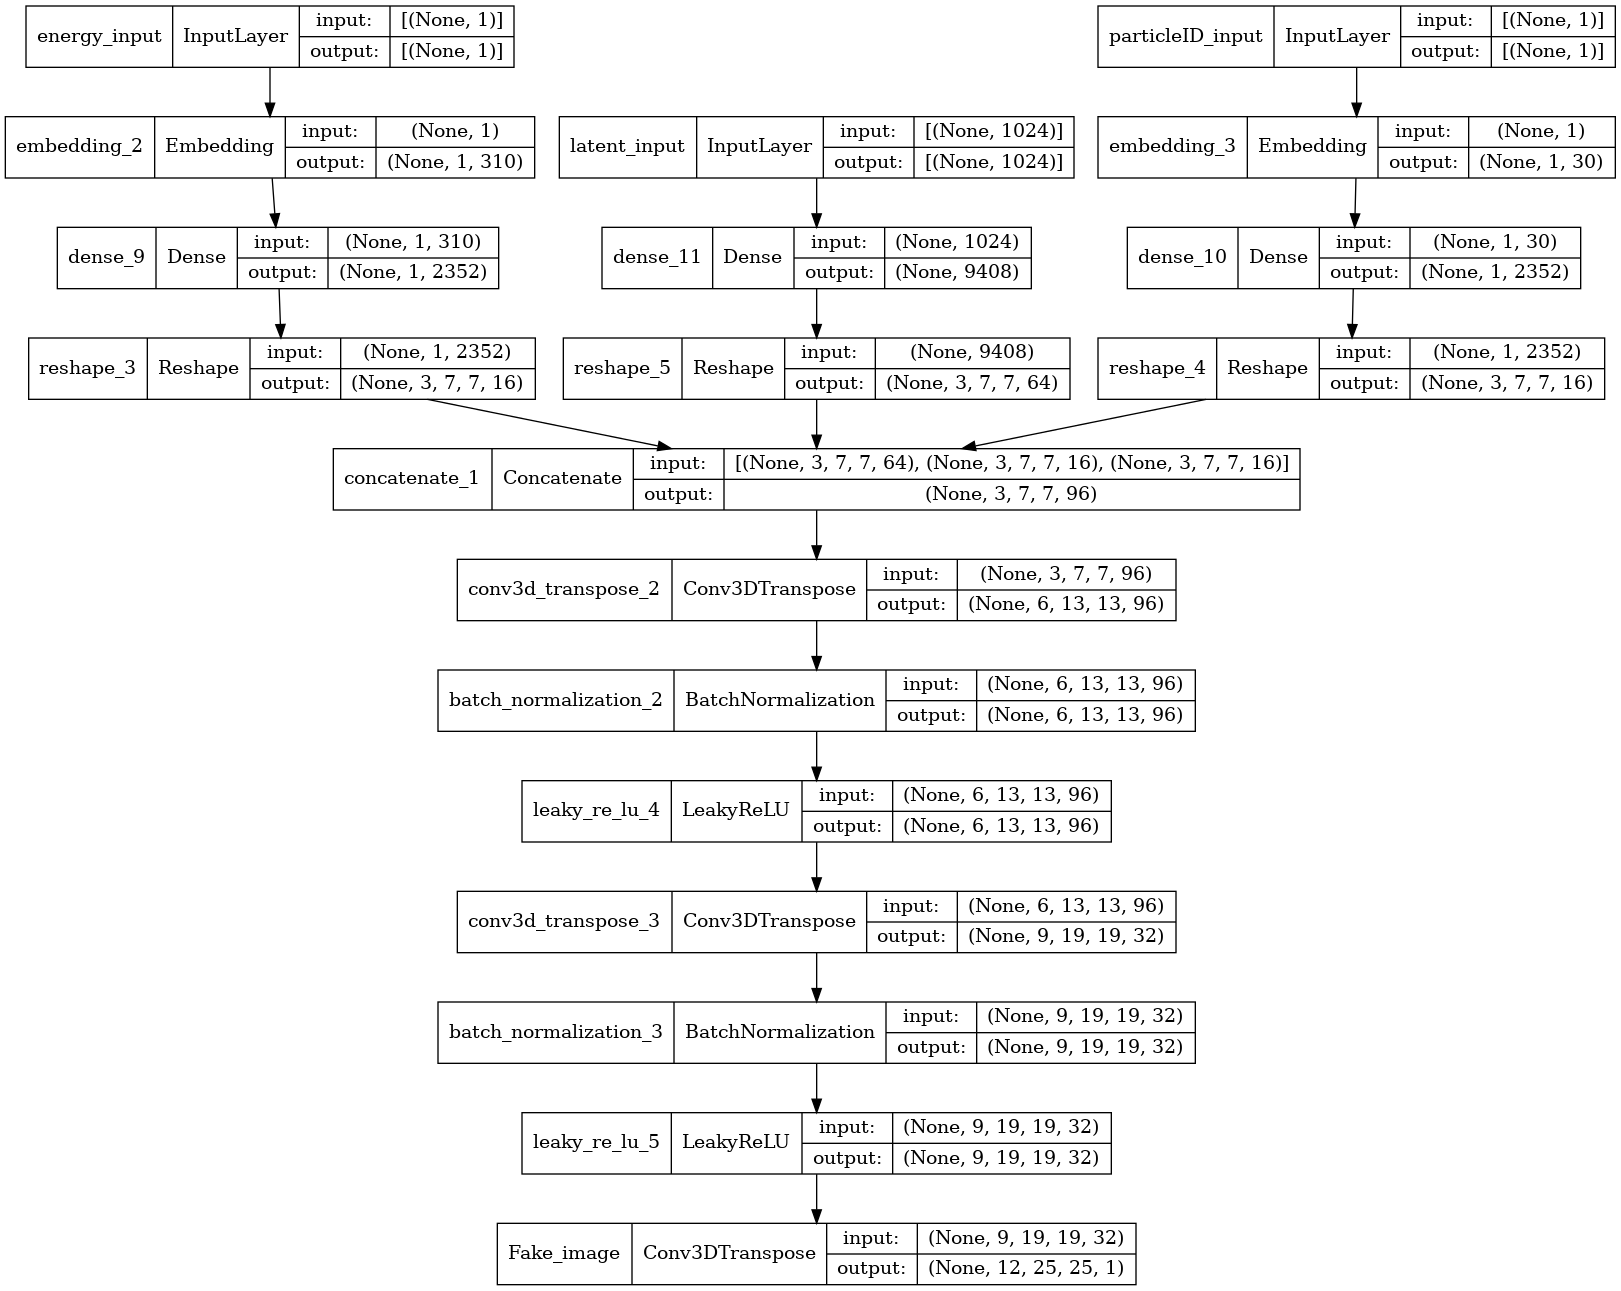
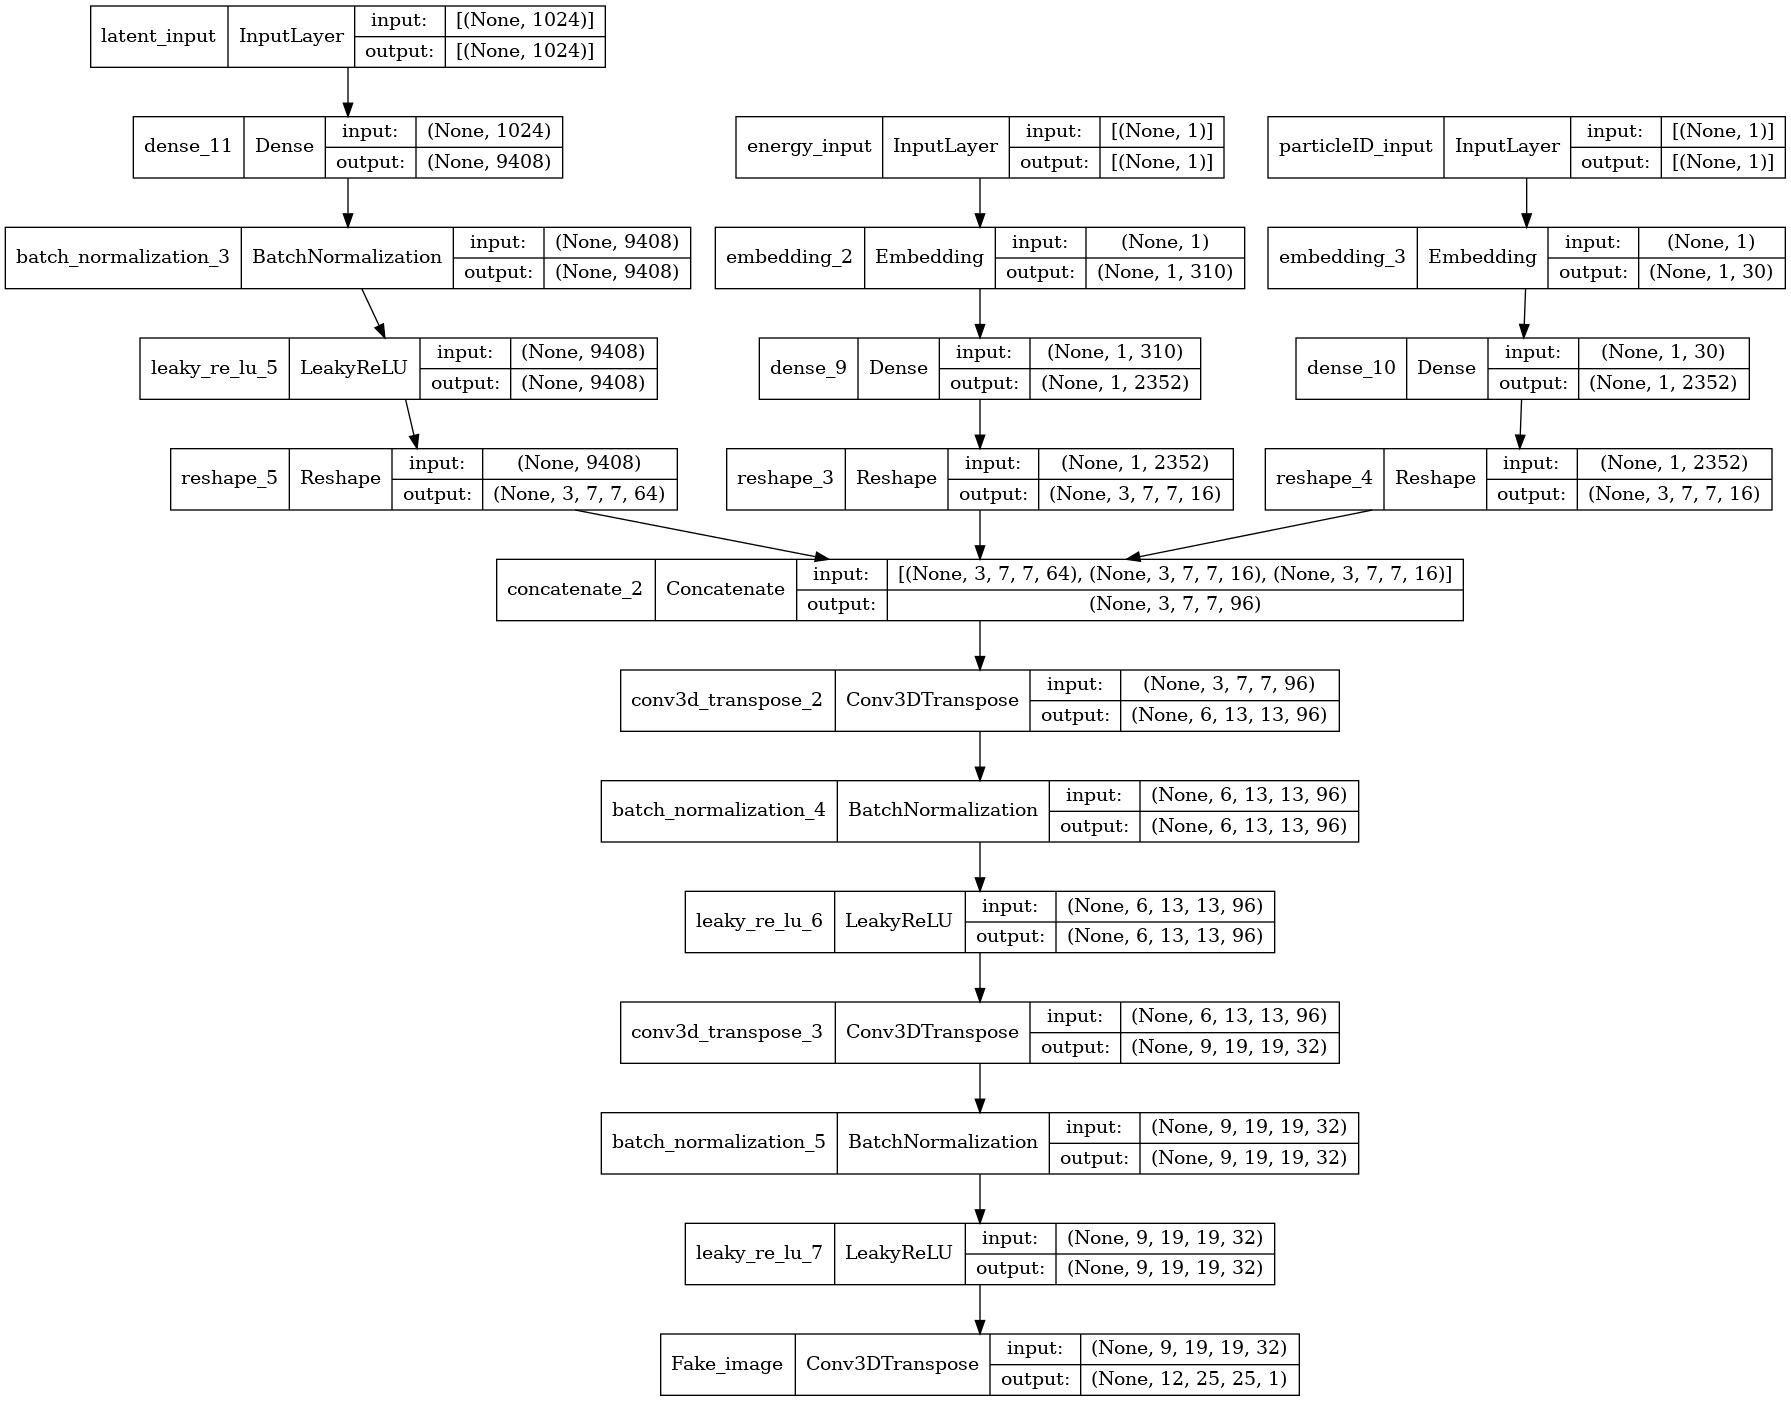
added energy per layer in discriminator

Changed region(s): [[0.0, 0.0, 1.0, 1.0]]

diff --git a/EM_shower_simulator/make_models_D.py b/EM_shower_simulator/make_models_D.py
@@ -195,6 +195,19 @@ def compute_energy(in_images):
     en_images = tf.math.reduce_sum(en_images, axis=[1,2,3])
     return en_images
 
+def energies_per_layer(in_images):
+    """Compute energy deposited in detector for each layer
+    """
+    in_images = tf.cast(in_images, tf.float32)
+
+    en_images = tf.math.multiply(in_images, ENERGY_NORM)
+    en_images = tf.math.pow(10., en_images)
+    en_images = tf.math.divide(en_images, ENERGY_SCALE)
+    en_images = tf.math.reduce_sum(en_images, axis=[2,3,4])
+    #output: (None, 12)
+    return en_images
+
+
 def make_discriminator_model():
     """Define discriminator model:
     Input 1) Vector of images associated to the given labels;
@@ -205,7 +218,7 @@ def make_discriminator_model():
     layer that creates a sort of lookup-table (vector[EMBED_DIM] of floats) that
     categorizes the labels in N_CLASSES * classes.
     """
-    N_FILTER = 32
+    N_FILTER = 64
     KERNEL = (5, 5, 5)
     KERNEL_1 = (3, 3, 3)
     KERNEL_2 = (2, 2, 2)
@@ -225,6 +238,8 @@ def make_discriminator_model():
     # Image input
     in_image = Input(shape=GEOMETRY, name="input_image")
 
+    energies = Lambda(energies_per_layer, name="energies_per_layer")(in_image)
+
     # minibatch = Lambda(minibatch_stddev_layer, name="minibatch")(in_image)
     # logger.info(f"Minibatch shape: {minibatch.get_shape()}")
 
@@ -237,20 +252,23 @@ def make_discriminator_model():
     minibatch = Lambda(minibatch_stddev_layer, name="minibatch")(discr)
     logger.info(f"Minibatch shape: {minibatch.get_shape()}")
 
-    discr = Conv3D(2*N_FILTER, (2,2,2) , padding="same", use_bias=False)(minibatch)
-    discr = MaxPooling3D(pool_size = (2,3,3) , padding ="same")(discr)
-    logger.info(discr.get_shape())
+    # discr = Conv3D(2*N_FILTER, (2,2,2) , padding="same", use_bias=False)(minibatch)
+    # discr = MaxPooling3D(pool_size = (2,3,3) , padding ="same")(discr)
+    # logger.info(discr.get_shape())
+    # discr = LeakyReLU()(discr)
+    # discr = Dropout(0.3)(discr)
+
+    discr = Conv3D(3*N_FILTER, (3,3,3), padding="same", use_bias=False)(discr)
+    discr = MaxPooling3D(pool_size = (2,3,3) , padding ="valid")(discr)
     discr = LeakyReLU()(discr)
     discr = Dropout(0.3)(discr)
-
-    discr = Conv3D(3*N_FILTER, (2,2,2), padding="same", use_bias=False)(discr)
-    discr = MaxPooling3D(pool_size = (1,3,3) , padding ="same")(discr)
 
     # minibatch = Lambda(minibatch_stddev_layer, name="minibatch")(discr)
     # logger.info(f"Minibatch shape: {minibatch.get_shape()}")
 
     logger.info(discr.get_shape())
     discr = Flatten()(discr)
+    discr = Concatenate()([discr, energies])
 
     discr_conv = Dense(N_FILTER, activation="relu")(discr)
     discr_conv = Dense(N_FILTER, activation="relu")(discr_conv)
